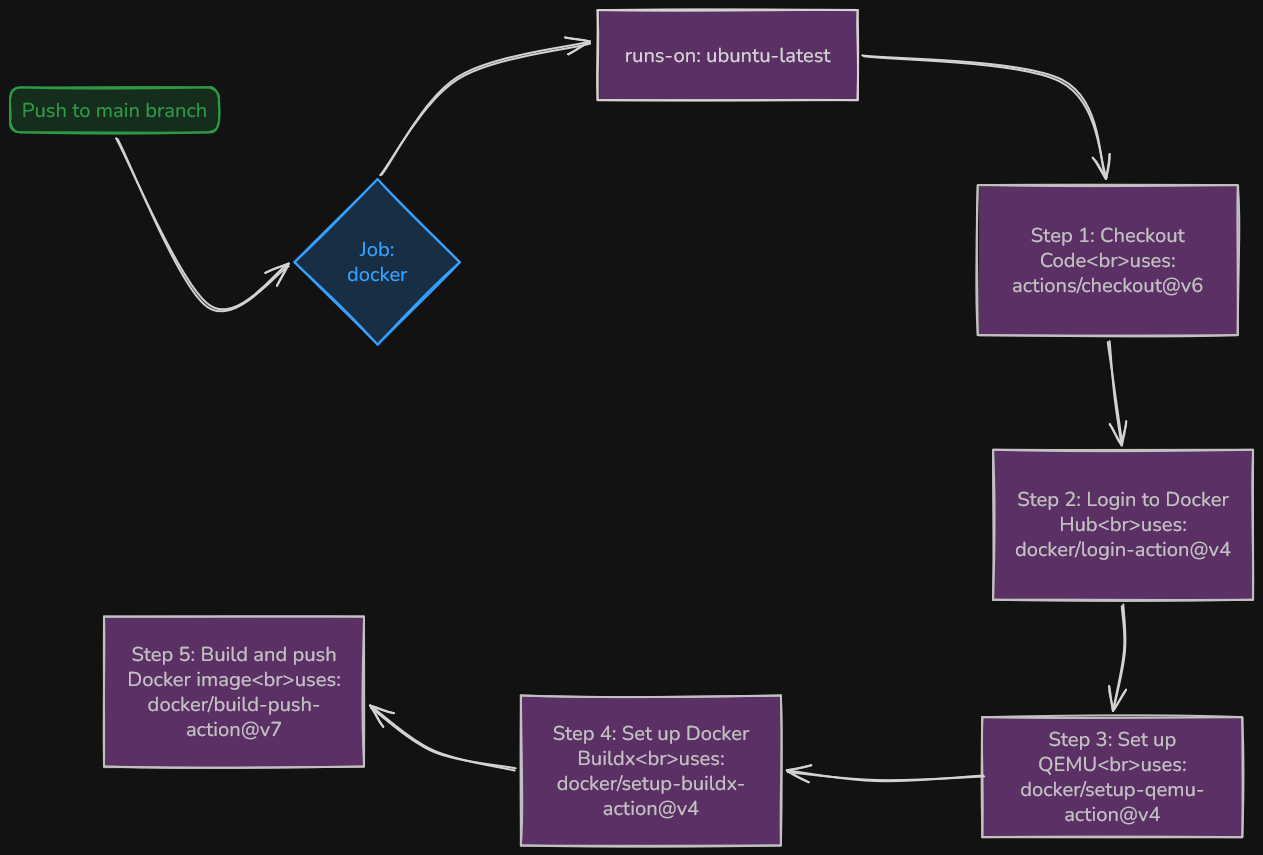
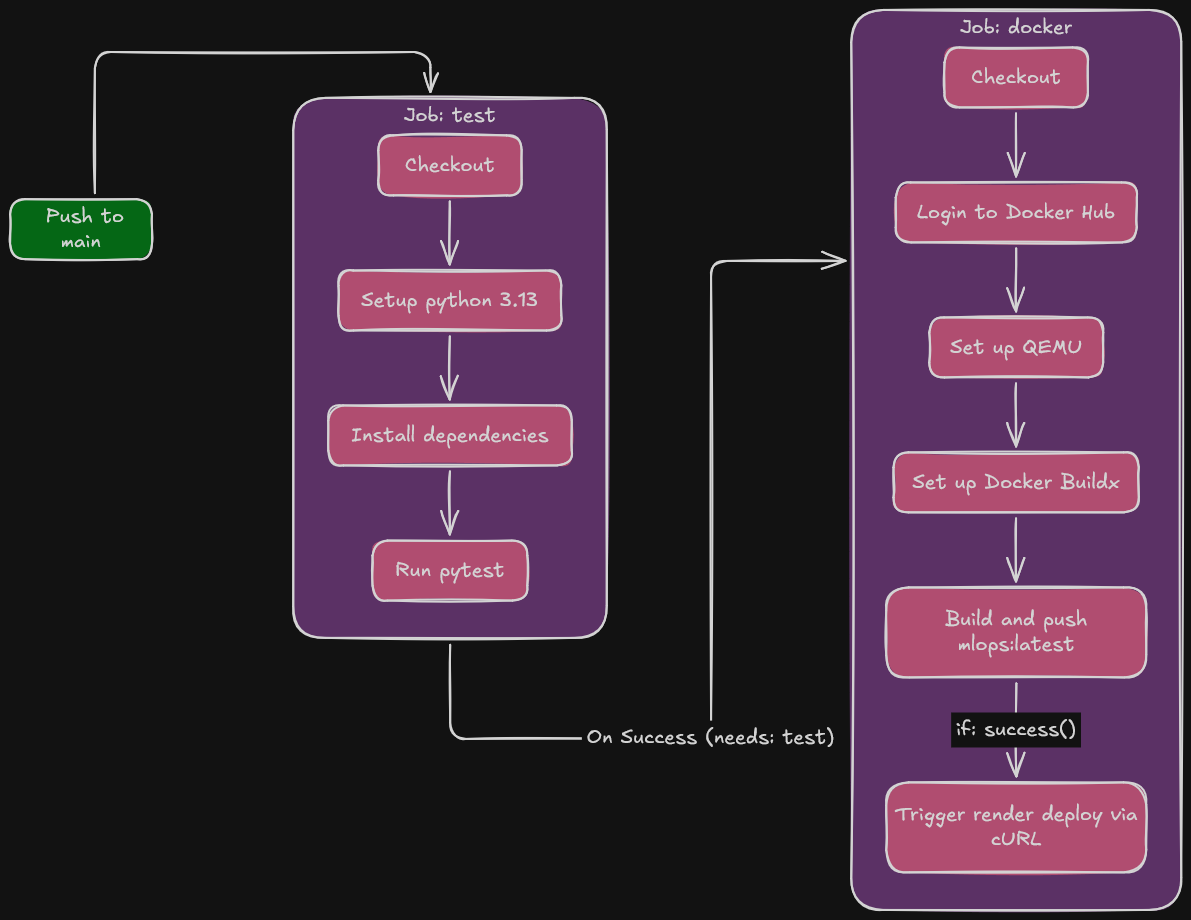
readme modified to reflect the addition pytest in workflow

diff --git a/app/main.py b/app/main.py
@@ -18,7 +18,7 @@ class data(BaseModel):
     fuel: Literal['Petrol','Diesel','CNG','LPG','Electric']
     seller_type: Literal['Individual','Dealer','Trustmark Dealer']
     transmission: Literal['Manual','Automatic']
-    owner: Literal['Test Drive Car','First OWner','Second Owner','Third Owner','Fourth & Above Owner']
+    owner: Literal['Test Drive Car','First Owner','Second Owner','Third Owner','Fourth & Above Owner']
 
 @app.get("/")
 def api_check():

diff --git a/README.md b/README.md
@@ -12,6 +12,7 @@ The project answers two primary questions:
 * **MLflow:** For tracking experiments and model selection.
 * **FastAPI:** For building a high-performance web API.
 * **Pydantic:** For strict data validation and typing of API requests.
+* **pytest**: For automated testing to ensure API reliability before deployment.
 * **Docker:** For containerizing the application to ensure consistency across environments.
 * **GitHub Actions:** For implementing continuous integration and continuous deployment (CI/CD).
 * **Render:** For cloud hosting and deploying the containerized API.
@@ -44,10 +45,24 @@ The Docker image was published to DockerHub. From there, a container was spun up
 
 ### 7. CI/CD Pipeline Automation
 To automate the deployment process, a CI/CD pipeline was established using **GitHub Actions**. Whenever new code is pushed to the `main` branch, the workflow automatically:
-1. Checks out the code.
-2. Logs into Docker Hub using encrypted repository secrets.
-3. Builds the updated Docker image using Docker Buildx.
-4. Pushes the new `latest` tag to the Docker Hub registry.
+
+Stage 1: Test
+
+  1. Checks out the code and sets up a      Python 3.13 environment.
+
+  2. Installs testing dependencies from `requirements-test.txt`.
+
+  3. Runs pytest to validate the application logic and ensure the API behaves as expected.
+
+Stage 2: Build & Deploy (Requires Test Stage to Pass)
+
+  1. Logs into Docker Hub using encrypted repository secrets.
+
+  2. Builds the updated Docker image using Docker Buildx and QEMU.
+
+  3. Pushes the new latest tag to the Docker Hub registry.
+
+  4. Automatically pings the Render deploy webhook (RENDER_DEPLOY_HOOK) to pull the latest image and update the live production API.
 
 ![CI/CD Pipeline Flowchart](./images/actions.png)
 